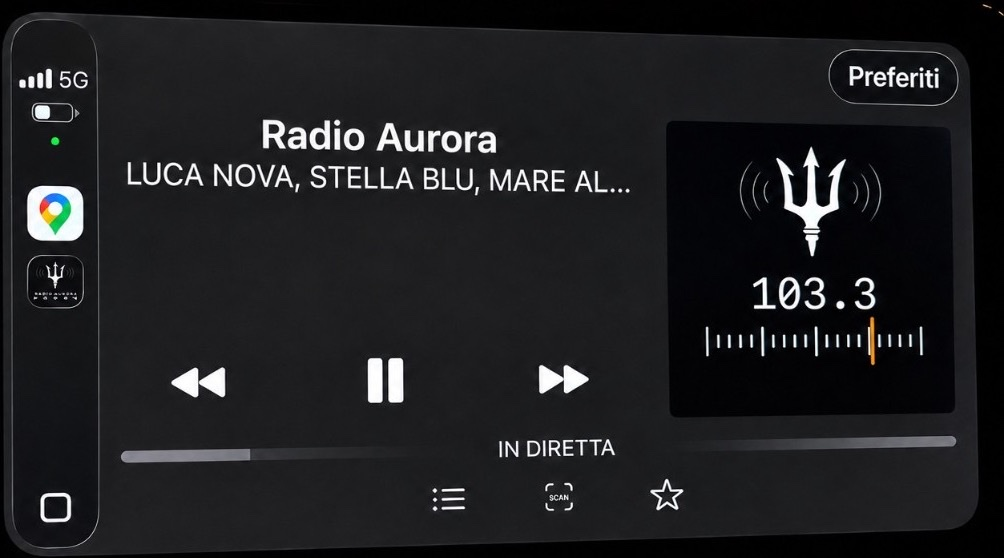
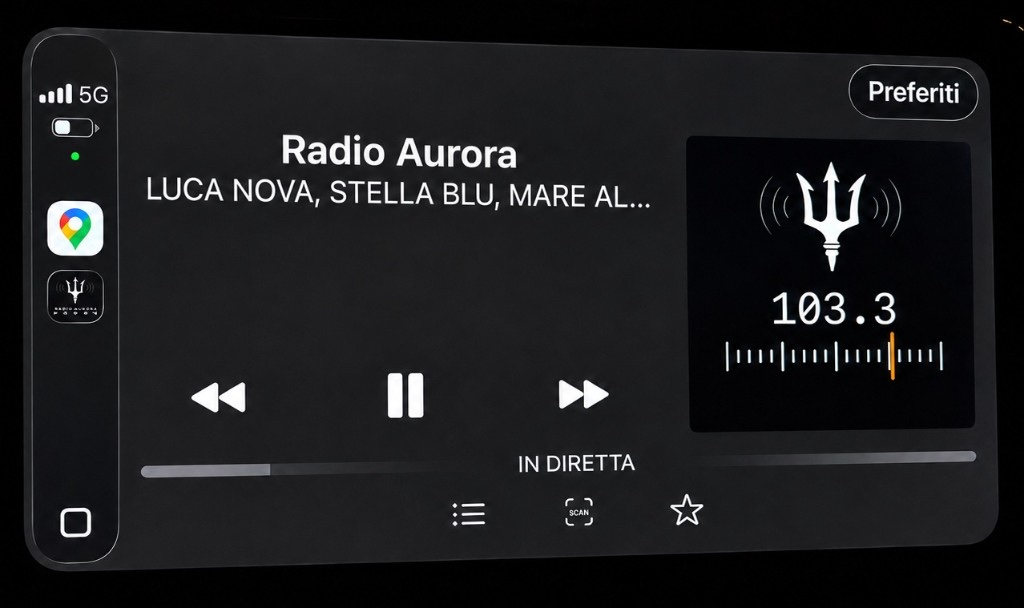
Fix CarPlay image cropping on Onde page

diff --git a/src/components/lab/lab.css b/src/components/lab/lab.css
@@ -1101,7 +1101,6 @@ a.onde-lang:hover {
 .onde-carplay {
   margin-top: 28px;
   max-width: 720px;
-  aspect-ratio: 16 / 10;
   background: var(--onde-surface);
   border: 1px solid var(--onde-line);
   border-radius: 10px;
@@ -1112,9 +1111,8 @@ a.onde-lang:hover {
 .onde-carplay img {
   display: block;
   width: 100%;
-  height: 100%;
-  object-fit: cover;
-  object-position: center;
+  height: auto;
+  object-fit: contain;
 }
 
 .lab-root--onde .onde-copy-sections .onde-carplay {
